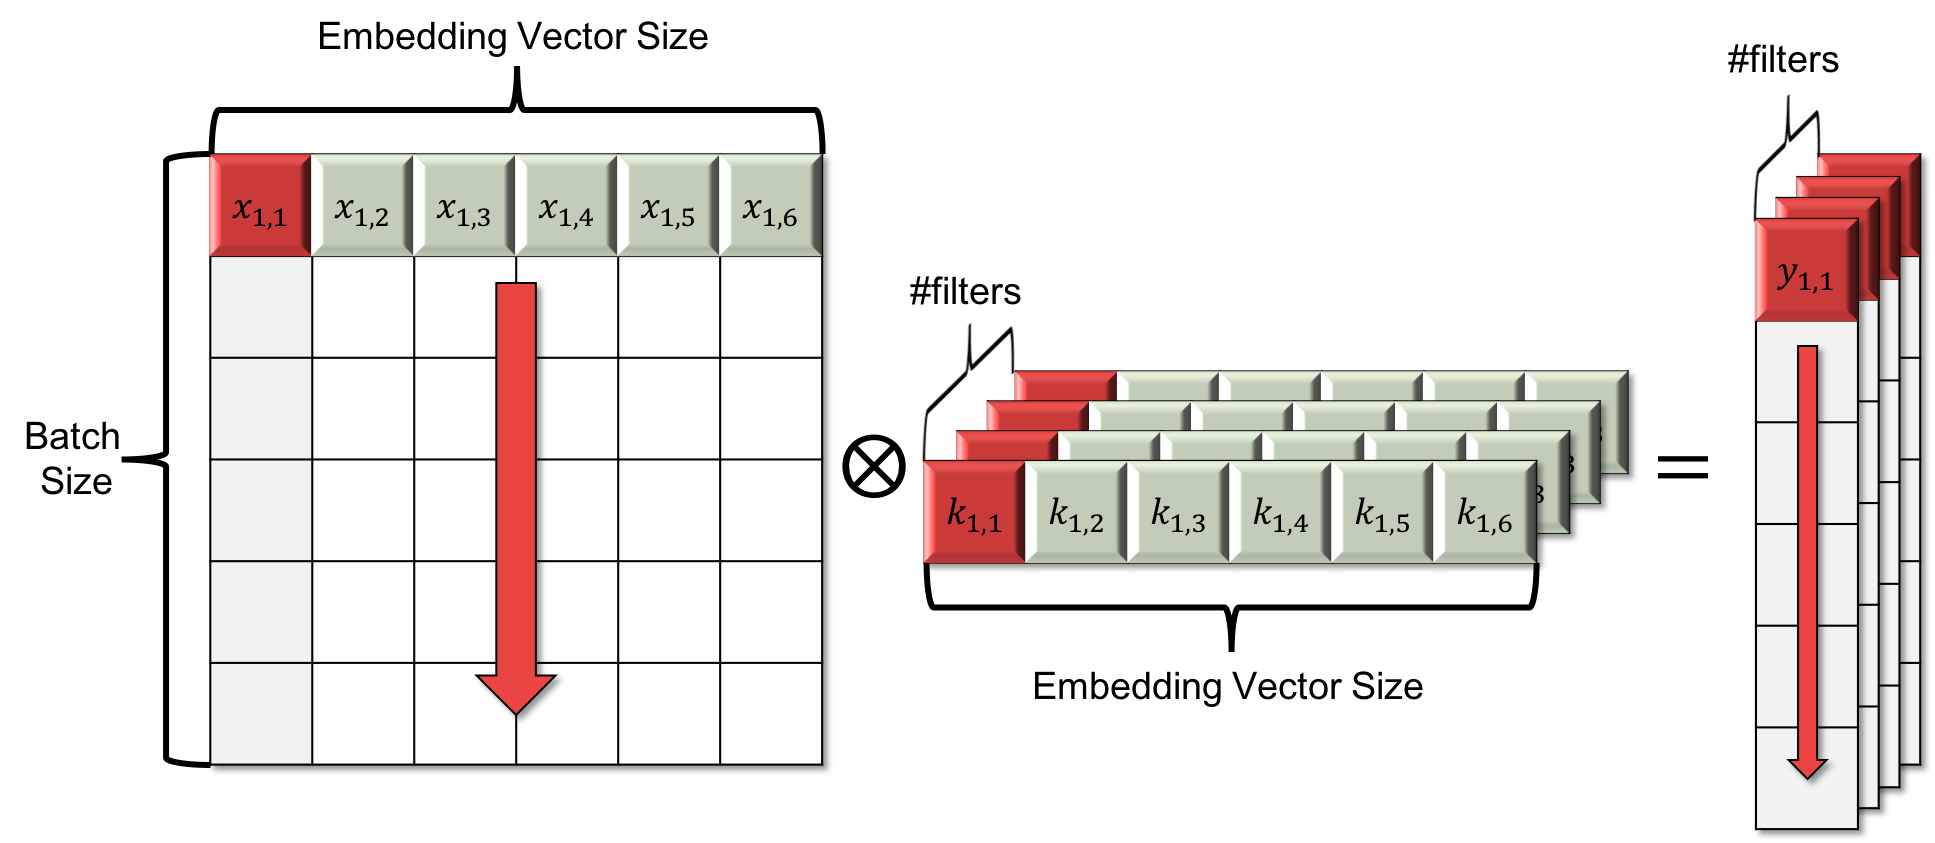
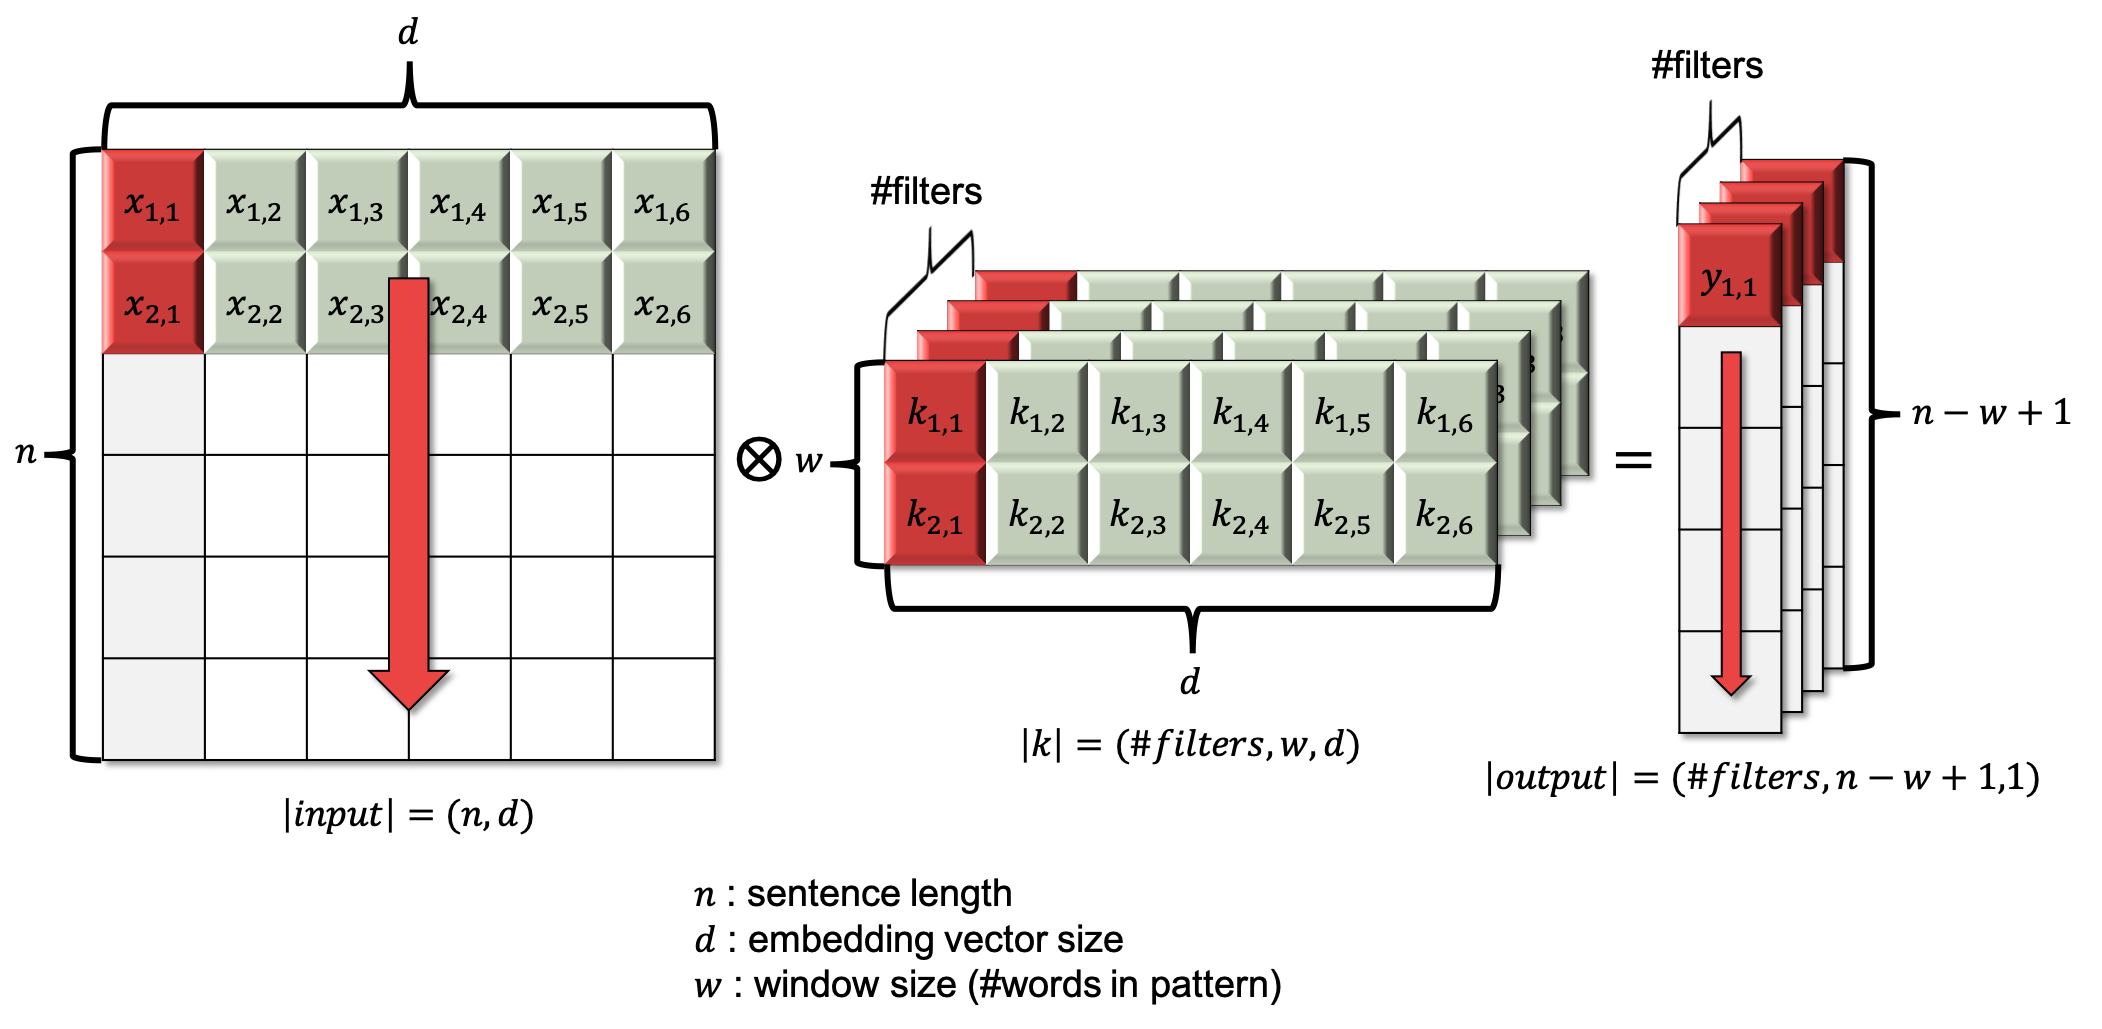
update cnn

diff --git a/text-classification/cnn.md b/text-classification/cnn.md
@@ -1,51 +1,61 @@
-# CNN Based Method
+# CNN을 활용하기
 
-이번 섹션에서는 Convolutional Nueral Network (CNN) Layer를 활용한 텍스트 분류에 대해 다루어 보겠습니다. CNN을 활용한 방법은 [[Kim at el.2014]](https://arxiv.org/pdf/1408.5882.pdf)에 의해서 처음 제안되었습니다. 사실 이전까지 딥러닝을 활용한 자연어처리는 Recurrent Nueral Networ (RNN)에 국한되어 있는 느낌이 매우 강했습니다. 텍스트 문장은 여러 단어로 이루어져 있고, 그 문장의 길이가 문장마다 상이하며, 문장 내의 단어들은 같은 문장 내의 단어에 따라서 영향을 받기 때문입니다.
+이번 섹션에서는 컨볼루션 뉴럴 네트워크(Convolutional Nueral Network, CNN) 레이어를 활용한 텍스트 분류에 대해 다루어 보겠습니다. CNN을 활용한 방법은 [[Kim at el.2014]](https://arxiv.org/pdf/1408.5882.pdf)에 의해서 처음 제안되었습니다. 사실 이전까지 딥러닝을 활용한 자연어처리는 RNN에 국한되어 있는 느낌이 매우 강했습니다. 텍스트 문장은 여러 단어로 이루어져 있고, 그 문장의 길이가 문장마다 상이하며, 문장 내의 단어들은 같은 문장 내의 단어에 따라서 영향을 받기 때문입니다.
 
 좀 더 비약적으로 표현하면 $t$ time-step에 등장하는 단어 $w_t$는 이전 time-step에 등장한 단어들 $w_1,\cdots,w_{t_1}$에 의존하기 때문입니다. (물론 실제로는 $t$ 이후에 등장하는 단어들로부터도 영향을 받습니다.) 따라서 시간 개념이 도입되어야 하기 때문에, RNN의 사용은 불가피하다고 생각되었습니다. 하지만 앞서 소개한 [[Kim at el.2014]](https://arxiv.org/pdf/1408.5882.pdf) 논문에 의해서 새로운 시각이 열리게 됩니다.
 
-## Convolution Operation
+## 컨볼루션 연산 (Convolution Operation)
 
-사실 널리 알려졌다시피, CNN은 영상처리(or Computer Vision) 분야에서 매우 큰 성과를 거두고 있었습니다. CNN의 동기 자체가, 기존의 전통적인 영상처리에서 사용되던 각종 convolution 필터(filter or kernel)를 자동으로 학습하기 위함이기 때문입니다.
+CNN은 영상처리(or Computer Vision) 분야에서 매우 큰 성과를 거두고 있었습니다. CNN의 동기 자체가, 기존의 전통적인 영상처리에서 사용되던 각종 컨볼루션 필터(filter or kernel)를 자동으로 학습하기 위함이기 때문입니다.
 
-### Convolution Filter
+### 컨볼루션 필터 (Convolution Filter)
 
-전통적인 영상처리 분야에서는 손으로 한땀한땀 만들어낸 필터를 사용하여 윤곽선을 검출하는 등의 전처리 과정을 거쳐, 얻어낸 피쳐(feature)들을 통해 객체 탐지(object detection)등을 구현하곤 하였습니다. 예를 들어 주어진 이미지에서 윤곽선(edge)을 찾기 위한 convolution 필터는 아래와 같습니다.
+전통적인 영상처리 분야에서는 손으로 한땀한땀 만들어낸 필터를 사용하여 윤곽선(edge)을 검출하는 등의 전처리 과정을 거쳐, 얻어낸 피쳐(feature)들을 통해 객체 탐지(object detection)등을 구현하곤 하였습니다. 예를 들어 주어진 이미지에서 윤곽선을 찾기 위한 컨볼루션 필터는 아래와 같습니다.
 
-![Sobel Filters for vertial and horizontal edges](../assets/tc-cnn-sobel-filter.gif)
+![수직, 수평 윤곽선을 검출하기 위한 소벨(Sobel)필터](../assets/tc-cnn-sobel-filter.gif)
 
 이 필터를 이미지에 적용하면 아래와 같은 결과를 얻을 수 있습니다.
 
-![An image before Sobel filter (from Wikipedia)](https://upload.wikimedia.org/wikipedia/commons/f/f0/Valve_original_%281%29.PNG)
+![소벨 필터 적용 전 (출처: 위키피디아)](https://upload.wikimedia.org/wikipedia/commons/f/f0/Valve_original_%281%29.PNG)
 
-![Image after applying Sobel filter (from Wikipedia)](https://upload.wikimedia.org/wikipedia/commons/d/d4/Valve_sobel_%283%29.PNG)
+![소벨 필터 적용 후 (출처: 위키피디아)](https://upload.wikimedia.org/wikipedia/commons/d/d4/Valve_sobel_%283%29.PNG)
 
-이처럼 전처리 서브모듈에서 여러 필터들을 문제에 따라 적용하여 피쳐들을 얻어낸 이후에, 다음 서브모듈을 적용하여 주어진 문제를 해결하는 방식이었습니다.
+이처럼 딥러닝 이전의 영상처리의 경우에는, 전처리 모듈에서 여러 필터들을 해결하고자 하는 문제에 따라 직접 적용하여 피쳐들을 얻어낸 이후에, 다음 단계의 모듈을 적용하여 문제를 해결하는 방식이었습니다.
 
-## Convolutional Neural Network Layer
+## 컨볼루션 뉴럴 네트워크 레이어 (Convolutional Neural Network, CNN Layer)
 
-만약 문제에 따라서 필요한 convoltuion 필터를 자동으로 찾아준다면 어떻게 될까요? CNN이 바로 그러한 역할을 해주게 됩니다. Convolution 연산을 통해 feed-forward 된 값에 back-propagation을 하여, 더 나은 convolution 필터 값을 찾아나가게 됩니다. 따라서 마지막에 loss 값이 수렴 한 이후에는, 해당 문제에 딱 맞는 여러 종류의 convolution 필터를 찾아낼 수 있게 되는 것 입니다.
+만약 문제에 따라서 필요한 컨볼루션 필터를 자동으로 찾아준다면 어떻게 될까요? CNN이 바로 그러한 역할을 해주게 됩니다. 컨볼루션 연산을 통해 피드포워드(feed-forward) 된 값에 back-propagation을 하여, 더 나은 컨볼루션 필터 값을 찾아나가게 됩니다. 따라서 마지막에 손실 함수의 값이 수렴 한 이후에는, 해당 문제에 딱 맞는 여러 종류의 컨볼루션 필터를 찾아낼 수 있게 되는 것 입니다.
 
-![Convolution 연산을 적용하는 과정](../assets/tc-convolution.png)
+![컨볼루션 연산을 적용하는 과정](../assets/tc-convolution.png)
 
 $$
 \begin{aligned}
-y_{1,1}&=x_{1,1}*k_{1,1}+\cdots+x_{3,3}*k_{3,3} \\
+y_{1,1}&=\text{Convolution}(x_{1,1}\cdots,x_{3,3},\theta)\text{ where }\theta=\{k_{1,1},\cdots,k_{3,3}\} \\
+&=x_{1,1}*k_{1,1}+\cdots+x_{3,3}*k_{3,3} \\
 &=\sum_{i=1}^3{\sum_{j=1}^3{x_{i,j}*k_{i,j}}}
 \end{aligned}
 $$
 
-Convolution 필터 연산의 forward는 위와 같습니다. 필터(또는 커널)가 주어진 이미지 위에서 차례대로 convolution 연산을 수행합니다. 보다시피, 상당히 많은 연산이 병렬(parallel)로 수행될 수 있음을 알 수 있습니다.
+컨볼루션 필터 연산의 피드포워드 연산은 위와 같습니다. 필터(또는 커널)가 주어진 이미지 위에서 차례대로 컨볼루션 연산을 수행합니다. 보다시피, 상당히 많은 연산이 병렬(parallel)로 수행될 수 있음을 알 수 있습니다.
 
-기본적으로는 convolution 연산의 결과물은 필터의 크기에 따라 입력에 비해서 크기가 줄어듭니다. 위의 그림에서도 필터의 크기가 $3\times3$ 이므로, $6\times6$ 입력에 적용하면 $4\times4$ 크기의 결과물을 얻을 수 있습니다. 따라서 입력과 같은 크기를 유지하기 위해서는 결과물의 바깥에 패딩(padding)을 추가하여 크기를 유지할 수도 있습니다.
+기본적으로는 컨볼루션 연산의 결과물은 필터의 크기에 따라 입력에 비해서 크기가 줄어듭니다. 위의 그림에서도 필터의 크기가 $3\times3$ 이므로, $6\times6$ 입력에 적용하면 $4\times4$ 크기의 결과물을 얻을 수 있습니다. <comment> 입력과 같은 크기를 유지하기 위해서는 결과물의 바깥에 패딩(padding)을 추가하여 크기를 유지할 수도 있습니다. </comment> 즉, 입력 차원의 크기와 필터의 크기가 주어졌을 때, 출력 차원의 크기는 아래와 같이 계산 할 수 있습니다.
 
-이처럼 CNN은 문제를 해결하기 위한 패턴을 감지하는 필터를 자동으로 구성하여주는 역할을 통해, 영상처리 등의 Computer Vision 분야에서 빼놓을 수 없는 매우 중요한 역할을 하고 있습니다. 또한, 이미지 뿐만 아니라 아래와 같이 음성 분야에서도 효과를 보고 있습니다. Audio 신호의 경우에도 푸리에 변환을 통해서 2차원의 시계열 데이터를 얻을 수 있습니다. 이렇게 얻어진 데이터에 대해서도 마찬가지로 패턴을 찾아내는 convolution 연산이 필요합니다.
+$$
+\begin{gathered}
+\text{output\_size}=\text{input\_size}-\text{filter\_size}+1 \\
+\\
+\text{For example, if }y=\text{CNN}(x,k), \\
+y\in\mathbb{R}^{4\times4}\text{ where }x\in\mathbb{R}^{6\times6}\text{ and }k\in\mathbb{R}^{3\times3}.
+\end{gathered}
+$$
+
+이처럼 CNN은 패턴을 감지하는 필터를 자동으로 최적화하는 역할을 통해, 영상처리(Computer Vision) 등의 분야에서 빼놓을 수 없는 매우 중요한 역할을 하고 있습니다. 또한, 이미지 뿐만 아니라 아래와 같이 음성 분야에서도 효과를 보고 있습니다. 음성 또는 오디오 신호의 경우에도 푸리에 변환을 통해서 2차원의 시계열 데이터를 얻을 수 있습니다. 이렇게 얻어진 데이터에 대해서도 마찬가지로 패턴을 찾아내는 컨볼루션 연산이 매우 유용합니다.
 
 ![Example of convolutional neural network for speech recognition [ Abdel-Hamid et al.2014](https://www.microsoft.com/en-us/research/wp-content/uploads/2016/02/CNN_ASLPTrans2-14.pdf)](../assets/tc-audio-cnn.png)
 
-## How to Apply CNN on Text Classification
+## 텍스트 분류에 CNN을 적용하는 방법
 
-그렇다면 텍스트 분류과정에는 어떻게 CNN을 적용하는 것일까요? 텍스트에 무슨 윤곽선과 같은 패턴이 있는 것일까요? 사실 단어들을 embedding vector로 변환하면, 1차원(vector)이 됩니다. 이때, 1-dimensional CNN을 수행하면, 이제 텍스트에서도 CNN이 효과를 발휘할 수 있게 됩니다.
+그렇다면 텍스트 분류과정에는 어떻게 CNN을 적용하는 것일까요? 텍스트에 무슨 윤곽선과 같은 패턴이 있는 것일까요? 사실 one-hot 벡터를 표현하는 인덱스 값을 단어 임베딩 벡터로 변환하면, 1차원(vector)이 됩니다. 그럼 문장 내의 모든 time-step의 단어 임베딩 벡터를 합치면 2차원의 행렬이 됩니다. 이때 컨볼루션을 수행하면, 이제 텍스트에서도 CNN이 효과를 발휘할 수 있게 됩니다.
 
 ![1D Convolutional neural network](../assets/tc-cnn-architecture.png)
 

diff --git a/text-classification/rnn.md b/text-classification/rnn.md
@@ -1,4 +1,4 @@
-# RNN을 활용한 텍스트 분류
+# RNN을 활용하기
 
 그럼 이제 딥러닝을 통한 텍스트 분류 문제를 살펴 보겠습니다. 딥러닝을 통해 텍스트 분류를 하기 위한 가장 간단한 방법은 Recurrent Neural Network(RNN)를 활용하는것 입니다. 문장은 단어들의 시퀀스로 이루어진 시퀀셜(sequential) 데이터 입니다. 따라서, 각 위치(또는 time-step)의 단어들은 다른 위치의 단어들과 영향을 주고 받습니다. RNN은 이런 문장의 특성을 가장 잘 활용할 수 있는 뉴럴 네트워크 아키텍쳐입니다.
 
@@ -106,6 +106,8 @@ $$
 ## 파이토치 구현 예제
 
 아래는 위의 수식을 파이토치로 구현한 예제 입니다. 위의 수식에서와 달리 아래의 코드에서는 여러 레이어로 이루어진 LSTM을 사용하였습니다. 또한 LSTM 내부의 각 레이어 사이에는 드랍아웃(dropout)이 추가되어 있습니다. 또한 위의 크로스 엔트로피 손실 함수 설명에서 언급하였듯이, 네가티브 로그 라이클리후드(negative log-likelihood, NLL) 손실함수를 사용하여 최적화 하기 위하여, 일반적인 softmax 함수 대신에 로그 확률(log-probability)를 반환하는 log-softmax를 사용합니다.
+
+텍스트 분류기(text classifier)의 전체 소스코드는 저자의 [깃허브](https://github.com/kh-kim/simple-ntc)(https://github.com/kh-kim/simple-ntc)에서 볼 수 있습니다. 코드는 업데이트 될 수 있으므로, 자세한 내용은 깃허브의 코드를 직접 참고 바랍니다. 아래의 코드는 https://github.com/kh-kim/simple-ntc/blob/master/simple_ntc/rnn.py 입니다.
 
 ```python
 import torch.nn as nn

diff --git a/text-classification/naive-bayes.md b/text-classification/naive-bayes.md
@@ -1,4 +1,4 @@
-# 나이브 베이즈를 활용한 텍스트 분류
+# 나이브 베이즈를 활용하기
 
 나이브 베이즈(Naive Bayes)는 간단하지만 매우 강력한 방법 입니다. 의외로 기대 이상의 성능을 보여줄 때가 많습니다. 물론 단어를 여전히 discrete한 심볼(symbol)로 다루기 때문에, 여전히 아쉬운 부분이 많습니다. 이번 섹션에서는 나이브 베이즈를 통해서 텍스트를 분류 하는 방법을 살펴 보겠습니다.
 
